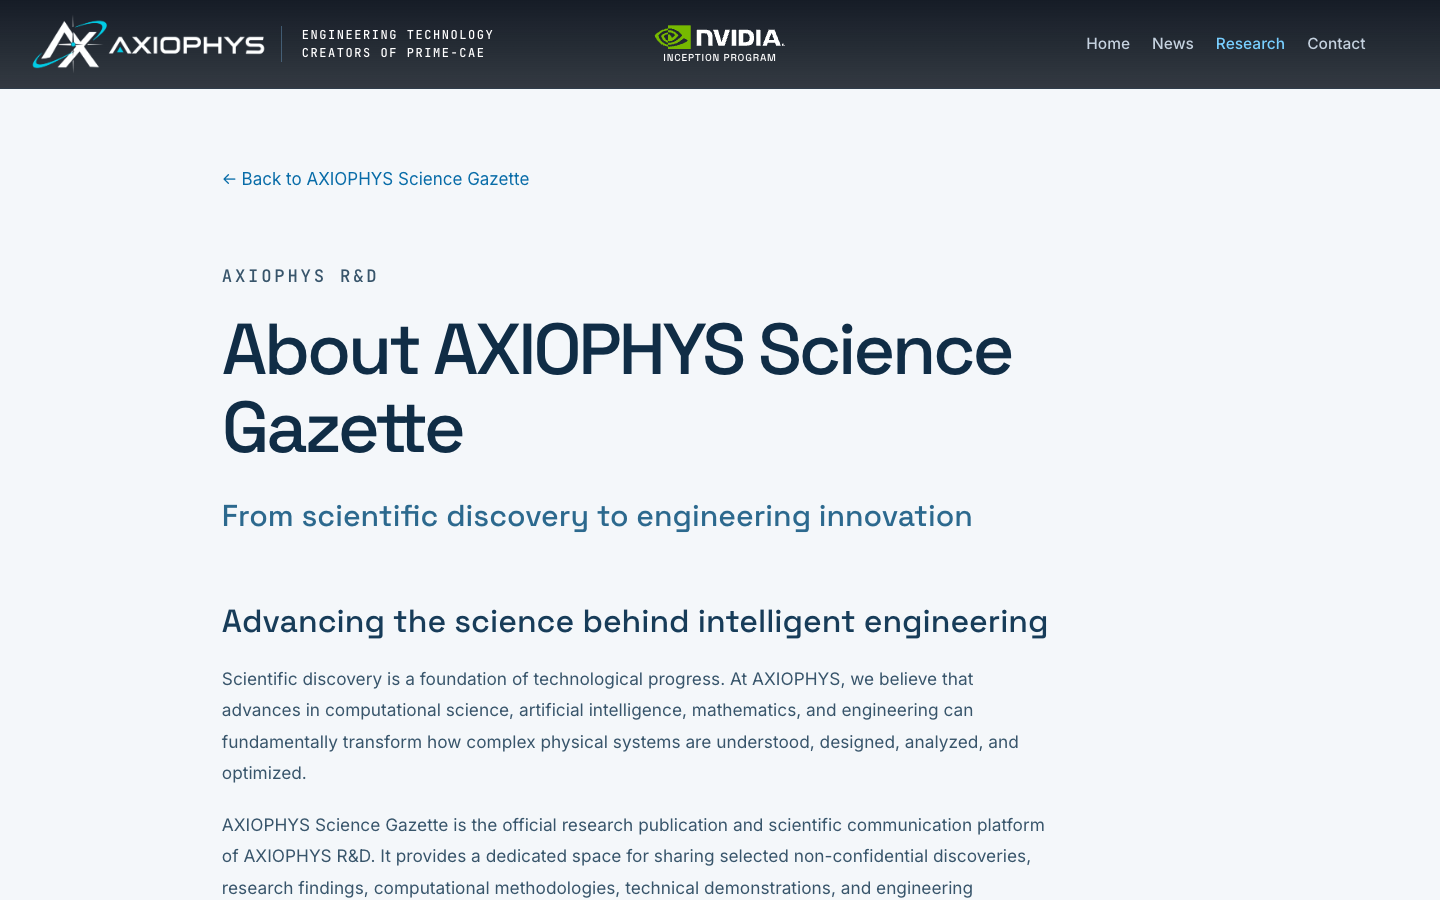
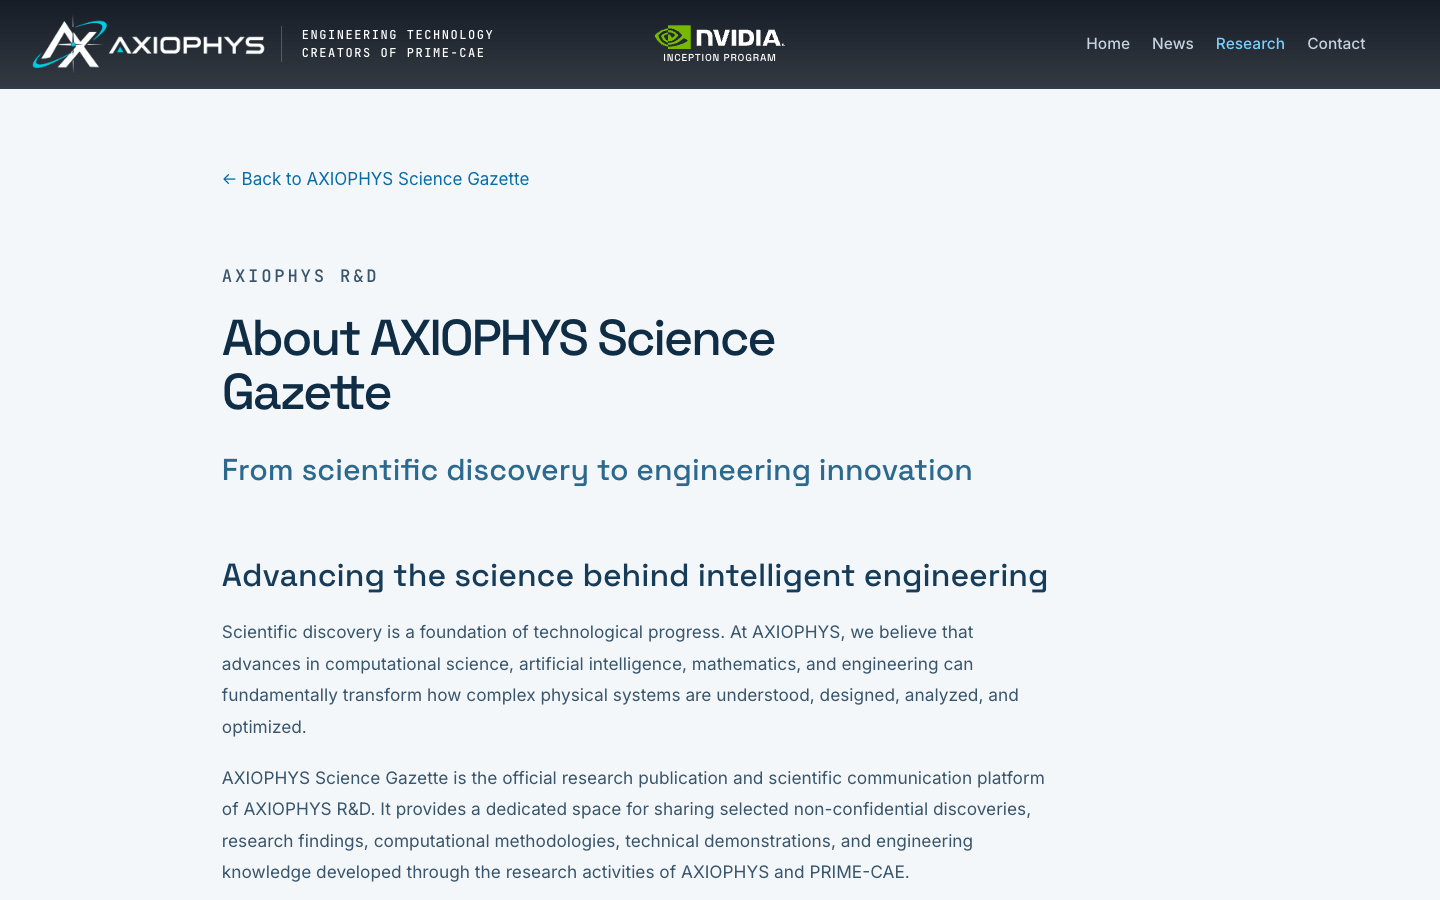
Reduce Science Gazette about heading size

Changed region(s): [[0.1562, 0.6844, 0.75, 0.9956], [0.1562, 0.3422, 0.7188, 0.5911], [0.1562, 0.6222, 0.7188, 0.6533]]

diff --git a/research.html b/research.html
@@ -1,4 +1,4 @@
-<!doctype html><html lang="en"><head><meta charset="utf-8"><meta name="viewport" content="width=device-width,initial-scale=1"><link rel="icon" type="image/png" sizes="16x16" href="assets/axiophys-icon-16.png?v=1"><link rel="icon" type="image/png" sizes="32x32" href="assets/axiophys-icon-32.png?v=1"><link rel="icon" type="image/png" sizes="48x48" href="assets/axiophys-icon-48.png?v=1"><link rel="icon" type="image/png" sizes="192x192" href="assets/axiophys-icon-192.png?v=1"><link rel="apple-touch-icon" sizes="180x180" href="assets/axiophys-icon-180.png?v=1"><script>if ('scrollRestoration' in history) history.scrollRestoration='manual';addEventListener('pageshow',function(){if(!location.hash)scrollTo({top:0,left:0,behavior:'instant'})});</script><title>AXIOPHYS Science Gazette | Research &amp; Scientific Publications</title><meta name="description" content="Explore AXIOPHYS Science Gazette, the scientific communication platform of AXIOPHYS R&amp;D, featuring computational science, engineering demonstrations, research papers and PRIME-CAE manuals."><link rel="canonical" href="https://axiophys.com/research.html"><meta name="theme-color" content="#030a14"><meta property="og:title" content="AXIOPHYS Science Gazette | Research &amp; Scientific Publications"><meta property="og:description" content="Explore AXIOPHYS Science Gazette, the scientific communication platform of AXIOPHYS R&amp;D, featuring computational science, engineering demonstrations, research papers and PRIME-CAE manuals."><meta property="og:url" content="https://axiophys.com/research.html"><meta property="og:type" content="website"><meta property="og:image" content="https://axiophys.com/media/gazette/science-gazette-poster.jpg"><link href="https://fonts.googleapis.com/css2?family=Space+Grotesk:wght@400;500;600&family=Inter:wght@400;500;600&family=JetBrains+Mono:wght@400;500&display=swap" rel="stylesheet"><link rel="stylesheet" href="css/tokens.css"><link rel="stylesheet" href="css/base.css"><link rel="stylesheet" href="css/layout.css"><link rel="stylesheet" href="css/components.css"><link rel="stylesheet" href="css/hero.css?v=menu-full-width-1"><link rel="stylesheet" href="css/sections.css"><link rel="stylesheet" href="css/mobile.css?v=mobile-menu-right-1"><link rel="stylesheet" href="css/axiophys.css?v=hero-rail-1"><link rel="stylesheet" href="css/news.css?v=header-match-1"><link rel="stylesheet" href="css/research.css?v=13"></head><body class="gazette-page"><svg xmlns="http://www.w3.org/2000/svg" width="0" height="0" aria-hidden="true" style="position:absolute;pointer-events:none"><defs><filter id="axiophys-on-dark" color-interpolation-filters="sRGB"><feColorMatrix type="matrix" values="1 -1.3944 0 0 1.1155  0 -0.26667 0 0 1.0251  0 -0.13333 0 0 1.01255  0 0 0 1 0"/></filter></defs></svg><header class="nav" id="nav" data-env="navy">
+<!doctype html><html lang="en"><head><meta charset="utf-8"><meta name="viewport" content="width=device-width,initial-scale=1"><link rel="icon" type="image/png" sizes="16x16" href="assets/axiophys-icon-16.png?v=1"><link rel="icon" type="image/png" sizes="32x32" href="assets/axiophys-icon-32.png?v=1"><link rel="icon" type="image/png" sizes="48x48" href="assets/axiophys-icon-48.png?v=1"><link rel="icon" type="image/png" sizes="192x192" href="assets/axiophys-icon-192.png?v=1"><link rel="apple-touch-icon" sizes="180x180" href="assets/axiophys-icon-180.png?v=1"><script>if ('scrollRestoration' in history) history.scrollRestoration='manual';addEventListener('pageshow',function(){if(!location.hash)scrollTo({top:0,left:0,behavior:'instant'})});</script><title>AXIOPHYS Science Gazette | Research &amp; Scientific Publications</title><meta name="description" content="Explore AXIOPHYS Science Gazette, the scientific communication platform of AXIOPHYS R&amp;D, featuring computational science, engineering demonstrations, research papers and PRIME-CAE manuals."><link rel="canonical" href="https://axiophys.com/research.html"><meta name="theme-color" content="#030a14"><meta property="og:title" content="AXIOPHYS Science Gazette | Research &amp; Scientific Publications"><meta property="og:description" content="Explore AXIOPHYS Science Gazette, the scientific communication platform of AXIOPHYS R&amp;D, featuring computational science, engineering demonstrations, research papers and PRIME-CAE manuals."><meta property="og:url" content="https://axiophys.com/research.html"><meta property="og:type" content="website"><meta property="og:image" content="https://axiophys.com/media/gazette/science-gazette-poster.jpg"><link href="https://fonts.googleapis.com/css2?family=Space+Grotesk:wght@400;500;600&family=Inter:wght@400;500;600&family=JetBrains+Mono:wght@400;500&display=swap" rel="stylesheet"><link rel="stylesheet" href="css/tokens.css"><link rel="stylesheet" href="css/base.css"><link rel="stylesheet" href="css/layout.css"><link rel="stylesheet" href="css/components.css"><link rel="stylesheet" href="css/hero.css?v=menu-full-width-1"><link rel="stylesheet" href="css/sections.css"><link rel="stylesheet" href="css/mobile.css?v=mobile-menu-right-1"><link rel="stylesheet" href="css/axiophys.css?v=hero-rail-1"><link rel="stylesheet" href="css/news.css?v=header-match-1"><link rel="stylesheet" href="css/research.css?v=14"></head><body class="gazette-page"><svg xmlns="http://www.w3.org/2000/svg" width="0" height="0" aria-hidden="true" style="position:absolute;pointer-events:none"><defs><filter id="axiophys-on-dark" color-interpolation-filters="sRGB"><feColorMatrix type="matrix" values="1 -1.3944 0 0 1.1155  0 -0.26667 0 0 1.0251  0 -0.13333 0 0 1.01255  0 0 0 1 0"/></filter></defs></svg><header class="nav" id="nav" data-env="navy">
   <div class="progress" aria-hidden="true"><i id="progressBar"></i></div>
   <div class="shell nav__in">
     <a class="nav__brand" href="https://axiophys.com/" aria-label="AXIOPHYS home">

diff --git a/about-science-gazette.html b/about-science-gazette.html
@@ -1,4 +1,4 @@
-<!doctype html><html lang="en"><head><meta charset="utf-8"><meta name="viewport" content="width=device-width,initial-scale=1"><link rel="icon" type="image/png" sizes="16x16" href="assets/axiophys-icon-16.png?v=1"><link rel="icon" type="image/png" sizes="32x32" href="assets/axiophys-icon-32.png?v=1"><link rel="icon" type="image/png" sizes="48x48" href="assets/axiophys-icon-48.png?v=1"><link rel="icon" type="image/png" sizes="192x192" href="assets/axiophys-icon-192.png?v=1"><link rel="apple-touch-icon" sizes="180x180" href="assets/axiophys-icon-180.png?v=1"><title>About AXIOPHYS Science Gazette | AXIOPHYS R&amp;D</title><meta name="description" content="The research philosophy behind AXIOPHYS Science Gazette and its connection between scientific discovery and engineering innovation."><link rel="canonical" href="https://axiophys.com/about-science-gazette.html"><meta name="theme-color" content="#030a14"><meta property="og:title" content="About AXIOPHYS Science Gazette | AXIOPHYS R&amp;D"><meta property="og:description" content="The research philosophy behind AXIOPHYS Science Gazette and its connection between scientific discovery and engineering innovation."><meta property="og:url" content="https://axiophys.com/about-science-gazette.html"><meta property="og:type" content="website"><meta property="og:image" content="https://axiophys.com/media/gazette/science-gazette-poster.jpg"><link href="https://fonts.googleapis.com/css2?family=Space+Grotesk:wght@400;500;600&family=Inter:wght@400;500;600&family=JetBrains+Mono:wght@400;500&display=swap" rel="stylesheet"><link rel="stylesheet" href="css/tokens.css"><link rel="stylesheet" href="css/base.css"><link rel="stylesheet" href="css/layout.css"><link rel="stylesheet" href="css/components.css"><link rel="stylesheet" href="css/hero.css?v=menu-full-width-1"><link rel="stylesheet" href="css/sections.css"><link rel="stylesheet" href="css/mobile.css?v=mobile-menu-right-1"><link rel="stylesheet" href="css/axiophys.css?v=hero-rail-1"><link rel="stylesheet" href="css/research.css?v=13"></head><body class="gazette-page"><svg xmlns="http://www.w3.org/2000/svg" width="0" height="0" aria-hidden="true" style="position:absolute;pointer-events:none"><defs><filter id="axiophys-on-dark" color-interpolation-filters="sRGB"><feColorMatrix type="matrix" values="1 -1.3944 0 0 1.1155  0 -0.26667 0 0 1.0251  0 -0.13333 0 0 1.01255  0 0 0 1 0"/></filter></defs></svg><header class="nav" id="nav" data-env="navy">
+<!doctype html><html lang="en"><head><meta charset="utf-8"><meta name="viewport" content="width=device-width,initial-scale=1"><link rel="icon" type="image/png" sizes="16x16" href="assets/axiophys-icon-16.png?v=1"><link rel="icon" type="image/png" sizes="32x32" href="assets/axiophys-icon-32.png?v=1"><link rel="icon" type="image/png" sizes="48x48" href="assets/axiophys-icon-48.png?v=1"><link rel="icon" type="image/png" sizes="192x192" href="assets/axiophys-icon-192.png?v=1"><link rel="apple-touch-icon" sizes="180x180" href="assets/axiophys-icon-180.png?v=1"><title>About AXIOPHYS Science Gazette | AXIOPHYS R&amp;D</title><meta name="description" content="The research philosophy behind AXIOPHYS Science Gazette and its connection between scientific discovery and engineering innovation."><link rel="canonical" href="https://axiophys.com/about-science-gazette.html"><meta name="theme-color" content="#030a14"><meta property="og:title" content="About AXIOPHYS Science Gazette | AXIOPHYS R&amp;D"><meta property="og:description" content="The research philosophy behind AXIOPHYS Science Gazette and its connection between scientific discovery and engineering innovation."><meta property="og:url" content="https://axiophys.com/about-science-gazette.html"><meta property="og:type" content="website"><meta property="og:image" content="https://axiophys.com/media/gazette/science-gazette-poster.jpg"><link href="https://fonts.googleapis.com/css2?family=Space+Grotesk:wght@400;500;600&family=Inter:wght@400;500;600&family=JetBrains+Mono:wght@400;500&display=swap" rel="stylesheet"><link rel="stylesheet" href="css/tokens.css"><link rel="stylesheet" href="css/base.css"><link rel="stylesheet" href="css/layout.css"><link rel="stylesheet" href="css/components.css"><link rel="stylesheet" href="css/hero.css?v=menu-full-width-1"><link rel="stylesheet" href="css/sections.css"><link rel="stylesheet" href="css/mobile.css?v=mobile-menu-right-1"><link rel="stylesheet" href="css/axiophys.css?v=hero-rail-1"><link rel="stylesheet" href="css/research.css?v=14"></head><body class="gazette-page"><svg xmlns="http://www.w3.org/2000/svg" width="0" height="0" aria-hidden="true" style="position:absolute;pointer-events:none"><defs><filter id="axiophys-on-dark" color-interpolation-filters="sRGB"><feColorMatrix type="matrix" values="1 -1.3944 0 0 1.1155  0 -0.26667 0 0 1.0251  0 -0.13333 0 0 1.01255  0 0 0 1 0"/></filter></defs></svg><header class="nav" id="nav" data-env="navy">
   <div class="progress" aria-hidden="true"><i id="progressBar"></i></div>
   <div class="shell nav__in">
     <a class="nav__brand" href="#top" aria-label="AXIOPHYS home">

diff --git a/css/research.css b/css/research.css
@@ -19,7 +19,7 @@
 .gazette-categories--floating a[aria-current="true"]{color:#086ca8}
 .gazette-intro{padding-block:clamp(64px,8vw,120px);scroll-margin-top:calc(var(--gazette-nav-h,var(--nav-h)) + 70px);border-bottom:1px solid #cad9e3}
 .gazette-intro>*{max-width:78ch}.gazette-eyebrow{font:500 .78rem/1.5 var(--font-mono);letter-spacing:.16em;text-transform:uppercase;color:#0875a9;margin-bottom:18px}
-.gazette-intro h1,.gazette-article h1{font:500 clamp(2.2rem,5vw,4.6rem)/1.08 var(--font-sans);letter-spacing:-.045em;color:#102d46;margin:0 0 14px;max-width:18ch}
+.gazette-intro h1,.gazette-article h1{font:500 clamp(1.9rem,3.5vw,3.4rem)/1.08 var(--font-sans);letter-spacing:-.045em;color:#102d46;margin:0 0 14px;max-width:18ch}
 .gazette-intro h2{font:500 clamp(1.3rem,2vw,1.85rem)/1.3 var(--font-sans);color:#46708d;margin-bottom:32px}
 .gazette-intro p:not(.gazette-eyebrow){font-size:clamp(1rem,1.35vw,1.14rem);line-height:1.8;color:#36546b;margin:0 0 20px}
 .gazette-link{display:inline-flex;align-items:center;gap:10px;color:#075e96;font:600 1rem/1.5 var(--font-sans);padding:12px 0;border-bottom:1px solid currentColor;margin-top:16px}
